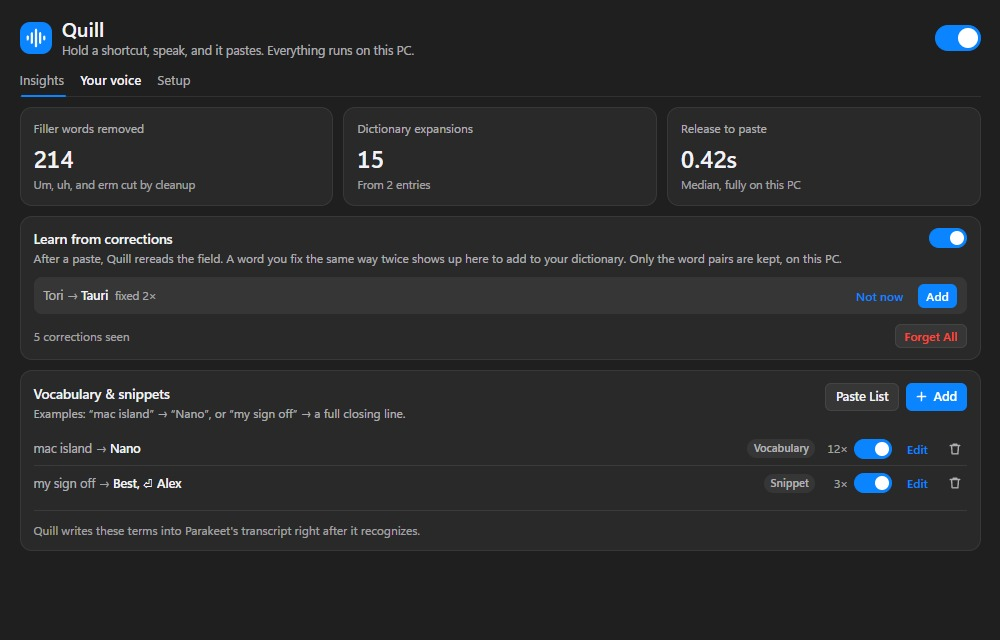
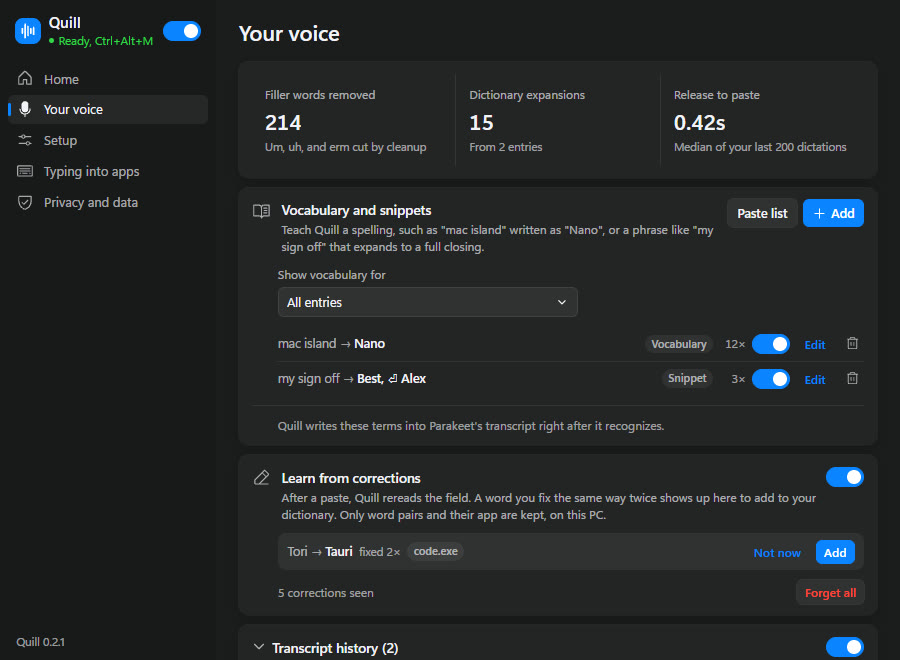
Update the README for the redesigned Settings and new features
New Home and Your voice screenshots, the five Settings pages, per-app
styles, cursor fitting, terminal pastes, emoji, live preview, press
enter, paste last, and history redo.

diff --git a/src/lib/devMock.ts b/src/lib/devMock.ts
@@ -101,6 +101,13 @@ export async function installDevMock() {
   } catch {
     console.warn("Installed app icons are unavailable in this browser preview.");
   }
+  // Lead with apps people recognize; helper processes make odd sample rows.
+  const preferred = ["t3 code (nightly).exe", "chatgpt.exe", "brave.exe", "discord.exe", "claude.exe", "code.exe", "slack.exe", "notepad.exe"];
+  const rank = (exe: string) => {
+    const k = preferred.indexOf(exe.toLowerCase());
+    return k < 0 ? preferred.length : k;
+  };
+  apps = apps.filter((a) => !/\.|runtime|settings|host/i.test(a.name)).sort((a, b) => rank(a.exe) - rank(b.exe));
   insights.apps = apps.map((app, index) => ({ ...app, words: [5200, 3100, 1400, 960, 300, 156][index] ?? 78 }));
   mockIPC((cmd) => {
     switch (cmd) {

diff --git a/README.md b/README.md
@@ -10,23 +10,27 @@ Offline voice dictation for Windows 10 and 11. Hold a shortcut, speak, and relea
 
 The installer supports 64-bit Windows and installs without an admin prompt. Models download during setup. After that, dictation works offline.
 
-![Quill Insights in dark mode with sample activity data](docs/screenshots/insights.jpg)
+![Quill Home page with sample activity data](docs/screenshots/home.jpg)
 
 ## How to use Quill
 
 Hold **Ctrl+Alt+M** to record, then release to paste. Toggle mode lets you press once to start and again to finish. Press Esc twice within one second to cancel.
 
-Quill runs in the system tray. Open Settings to change your shortcut, choose an engine, or enable Start at login. Setup has a collapsible engine picker, with extra controls under Advanced.
+Quill runs in the system tray. Settings has five pages: Home for your week, Your voice for vocabulary and history, Setup for the shortcut, engine, and cleanup style, Typing into apps for how text lands in each app, and Privacy and data.
+
+Turn on Live preview in Setup to see the words Quill hears while you speak. Say "press enter" at the end of a dictation to send it, once that option is on. To paste the last transcript again, use the tray menu or `quill://paste-last`.
 
 Quill uses a dark interface, including the window title bar, even when Windows uses light mode.
 
 ## Speech engines and cleanup
 
-Parakeet + S1-mini is the default engine. S1-mini cleans English transcripts and can remove fillers, fix punctuation, and format spoken lists. Choose Verbatim, Casual, Polished, or Compose to control the result. Whisper Tiny, Base, Turbo, and Cohere Transcribe are also available.
+Parakeet + S1-mini is the default engine. S1-mini cleans English transcripts and can remove fillers, fix punctuation, and format spoken lists. Choose Verbatim, Casual, Polished, or Compose to control the result, and pick a different style for specific apps, such as Casual in Discord. Whisper Tiny, Base, Turbo, and Cohere Transcribe are also available.
+
+Quill fits each dictation to where it lands. In the middle of a sentence it starts lowercase and drops a full stop the sentence doesn't need. In terminals it writes spoken commands as commands and pastes long text in pieces, so Claude Code and Codex show it instead of a placeholder. Say an emoji name followed by "emoji", such as "thumbs up emoji", to type the emoji. A built-in voice activity detector skips silence before recognition.
 
 Add vocabulary for names and terms, or snippets for text you repeat. Choose All apps or a specific app in the entry editor. App entries override matching global entries, so "Rust" in your code editor can stay "rust" in chat. Quill suggests dictionary entries when you make the same correction twice in an app.
 
-![Quill Your voice settings in dark mode with sample vocabulary](docs/screenshots/your-voice.jpg)
+![Quill Your voice page with sample vocabulary](docs/screenshots/your-voice.jpg)
 
 Screenshots use sample data.
 
@@ -34,7 +38,7 @@ Screenshots use sample data.
 
 Quill processes audio in memory and discards it after transcription. Recognition and cleanup do not send audio or text to a server. Downloads and update checks need an internet connection.
 
-Insights store counts on your PC, including words dictated and the app you used. Transcript history is off by default. If you enable it, Quill keeps the final text on your PC for 24 hours. You can turn both features off in Settings.
+Insights store counts on your PC, including words dictated and the app you used. Transcript history is off by default. If you enable it, Quill keeps what it heard and what it pasted on your PC for 24 hours, and you can redo any entry in another style. You can turn both features off in Settings.
 
 ## Install and update
 
@@ -46,7 +50,7 @@ Release notes are in the [changelog](docs/CHANGELOG.md). The installer also incl
 
 Quill uses Rust and Tauri, with React and TypeScript for Settings and the recording overlay. See [Development](docs/DEVELOPMENT.md) for build instructions and [Contributing](CONTRIBUTING.md) for bug reports and pull requests.
 
-Quill is [MIT licensed](LICENSE). Bundled runtimes and downloaded models have their own licenses, listed in the development guide and in Setup under Licenses.
+Quill is [MIT licensed](LICENSE). Bundled runtimes and downloaded models have their own licenses, listed in the development guide and in Settings under Privacy and data.
 
 ## Troubleshooting
 
